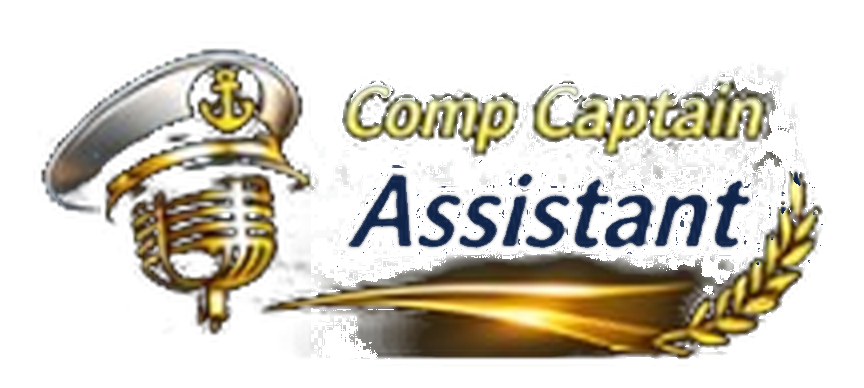
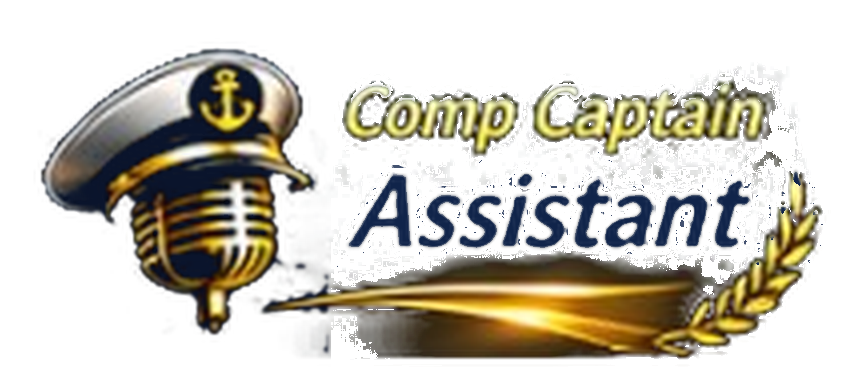
M0 fixes from the owner's Cubase test (0.1.1)
- Waveforms drawn on the screen's real pixels: sharp lines with a separate soft
  glow underneath (they were blurry).
- Bigger lyrics: the current line is 40px (shrinks only to fit long lines), and
  the Lyrics page editor and lined-up list are larger.
- Assistant badge: navy backing behind the hat and microphone, whose dark parts
  were see-through and looked like missing pieces in the light look. The script
  that builds both badges from the owner's art is in art/make_assistant.py.

Claude-Session: https://claude.ai/code/session_01QgEDck2ve2UKLFCYivL7jm

diff --git a/ui/js/wave.js b/ui/js/wave.js
@@ -24,35 +24,48 @@ const Wave = (() => {
   /**
    * opts: t0, t1 (seconds shown), env(t) -> 0..1, color (string or fn(t)), seed, gain, step (px), glow (px), alpha
    */
+  // Drawn on the screen's real pixels: sharp 1-pixel lines on top, with a separate soft glow
+  // underneath, so the waves stay crisp at any window size.
   function draw(canvas, opts) {
     const p = prep(canvas); if (!p) return;
     const { ctx, w, h } = p;
-    const step = opts.step || 1.6;
-    const mid = h / 2;
+    const k = canvas.width / w;                       // real pixels per layout pixel
+    const W = canvas.width, H = canvas.height, mid = Math.round(H / 2) + 0.5;
+    const step = Math.max(2, Math.round((opts.step || 1.6) * k * 0.75)); // in real pixels
     const gain = opts.gain == null ? 0.92 : opts.gain;
-    ctx.globalAlpha = opts.alpha == null ? 1 : opts.alpha;
-    ctx.lineWidth = opts.lineWidth || 1.2;
-    ctx.lineCap = 'round';
-    if (opts.glow !== 0) { ctx.shadowBlur = opts.glow || 6; }
-    let lastColor = null;
-    ctx.beginPath();
-    for (let x = 0; x <= w; x += step) {
-      const t = opts.t0 + (x / w) * (opts.t1 - opts.t0);
-      const color = typeof opts.color === 'function' ? opts.color(t) : opts.color;
-      if (color !== lastColor) {
-        if (lastColor !== null) ctx.stroke();
-        ctx.beginPath(); ctx.strokeStyle = color; ctx.shadowColor = color; lastColor = color;
-      }
-      const n = 0.45 + 0.55 * hash(Math.floor(x / step) + (opts.seed || 0) * 977);
-      const a = Math.min(1, opts.env(t) * n) * mid * gain;
-      ctx.moveTo(x, mid - a); ctx.lineTo(x, mid + a);
+    const alpha = opts.alpha == null ? 1 : opts.alpha;
+    const colorAt = (t) => (typeof opts.color === 'function' ? opts.color(t) : opts.color);
+
+    // work out the columns once
+    const cols = [];
+    for (let X = 0; X <= W; X += step) {
+      const t = opts.t0 + (X / W) * (opts.t1 - opts.t0);
+      const n = 0.45 + 0.55 * hash(Math.floor(X / step) + (opts.seed || 0) * 977);
+      cols.push({ x: X + 0.5, a: Math.max(0.5, Math.min(1, opts.env(t) * n) * (H / 2) * gain), c: colorAt(t) });
     }
-    ctx.stroke();
+    const stroke = (width, a, blur) => {
+      ctx.lineWidth = width; ctx.globalAlpha = alpha * a; ctx.shadowBlur = blur;
+      let last = null;
+      ctx.beginPath();
+      for (const col of cols) {
+        if (col.c !== last) {
+          if (last !== null) ctx.stroke();
+          ctx.beginPath(); ctx.strokeStyle = col.c; ctx.shadowColor = col.c; last = col.c;
+        }
+        ctx.moveTo(col.x, mid - col.a); ctx.lineTo(col.x, mid + col.a);
+      }
+      ctx.stroke();
+    };
+
+    ctx.save();
+    ctx.setTransform(1, 0, 0, 1, 0, 0);
+    ctx.lineCap = 'butt';
+    if (opts.glow !== 0) stroke(Math.max(2, step), 0.35, (opts.glow || 6) * k); // soft halo
+    stroke(Math.max(1, Math.round(k * 0.9)), 1, 0);                            // sharp lines
     // thin bright centre line like the art
-    ctx.shadowBlur = 0; ctx.globalAlpha = (opts.alpha == null ? 1 : opts.alpha) * 0.55;
-    ctx.strokeStyle = typeof opts.color === 'function' ? opts.color(opts.t0) : opts.color;
-    ctx.lineWidth = 0.8; ctx.beginPath(); ctx.moveTo(0, mid); ctx.lineTo(w, mid); ctx.stroke();
-    ctx.globalAlpha = 1;
+    ctx.shadowBlur = 0; ctx.globalAlpha = alpha * 0.6; ctx.strokeStyle = colorAt(opts.t0); ctx.lineWidth = 1;
+    ctx.beginPath(); ctx.moveTo(0, mid); ctx.lineTo(W, mid); ctx.stroke();
+    ctx.restore();
     return p;
   }
 

diff --git a/ui/css/app.css b/ui/css/app.css
@@ -193,7 +193,7 @@ svg { display: block; }
 .lyric-line { position: absolute; left: 8px; right: 8px; top: 8px; height: 48px; display: flex; align-items: center; gap: 10px; }
 .arrow { width: 40px; height: 40px; border-radius: 7px; border: 1px solid var(--btn-edge); background: var(--btn-fill); display: grid; place-items: center; padding: 0; color: var(--text); }
 .arrow svg { width: 22px; height: 22px; }
-.line-text { flex: 1; text-align: center; font-size: 31px; font-weight: 600; white-space: nowrap; overflow: hidden; text-overflow: ellipsis; color: var(--text); text-shadow: 0 0 10px rgba(120, 170, 255, .35); }
+.line-text { flex: 1; text-align: center; font-size: 40px; line-height: 48px; font-weight: 600; white-space: nowrap; overflow: hidden; text-overflow: ellipsis; color: var(--text); text-shadow: 0 0 10px rgba(120, 170, 255, .35); }
 .line-text .sung { color: var(--gold-text); text-shadow: 0 0 12px rgba(255, 190, 40, .55); }
 .chips { position: absolute; left: 50px; right: 50px; top: 62px; height: 26px; }
 .chip {
@@ -449,16 +449,16 @@ svg { display: block; }
 .box-head { display: flex; align-items: center; gap: 10px; height: 38px; padding: 0 12px; font-size: 18px; font-weight: 600; border-bottom: 1px solid var(--row-line); white-space: nowrap; overflow: hidden; }
 .box-head svg { width: 22px; height: 22px; color: var(--gold); flex: none; }
 .box-head .dim { font-size: 14px; font-weight: 400; overflow: hidden; text-overflow: ellipsis; }
-.lyr-editor textarea { position: absolute; left: 0; right: 0; top: 38px; bottom: 0; width: 100%; resize: none; border: 0; outline: none; padding: 10px 14px; background: transparent; color: var(--text); font: 17px/1.5 "CC Sans", sans-serif; user-select: text; }
+.lyr-editor textarea { position: absolute; left: 0; right: 0; top: 38px; bottom: 0; width: 100%; resize: none; border: 0; outline: none; padding: 10px 14px; background: transparent; color: var(--text); font: 22px/1.45 "CC Sans", sans-serif; user-select: text; }
 .lyr-list { position: absolute; left: 0; right: 0; top: 38px; bottom: 0; overflow-y: auto; padding: 6px 8px; }
-.ll { display: grid; grid-template-columns: 70px 1fr 120px; align-items: center; gap: 8px; height: 30px; padding: 0 6px; border-radius: 5px; font-size: 16px; }
+.ll { display: grid; grid-template-columns: 62px 1fr 96px; align-items: center; gap: 8px; height: 36px; padding: 0 6px; border-radius: 5px; font-size: 20px; }
 .ll:nth-child(odd) { background: rgba(120, 170, 255, .05); }
-.ll .t { color: var(--text-3); font-variant-numeric: tabular-nums; font-size: 14px; }
-.ll .sec { color: var(--gold-text); font-size: 13px; font-weight: 700; letter-spacing: .5px; }
+.ll .t { color: var(--text-3); font-variant-numeric: tabular-nums; font-size: 16px; }
+.ll .sec { color: var(--gold-text); font-size: 15px; font-weight: 700; letter-spacing: .5px; }
 .ll .span { height: 8px; border-radius: 4px; background: var(--track); position: relative; }
 .ll .span i { position: absolute; top: 0; bottom: 0; border-radius: 4px; background: linear-gradient(90deg, #7a4cff, #b98aff); box-shadow: 0 0 5px rgba(160, 120, 255, .7); }
 .ll .txt { white-space: nowrap; overflow: hidden; text-overflow: ellipsis; }
-.ll.head { grid-template-columns: 1fr; height: 26px; background: none !important; }
+.ll.head { grid-template-columns: 1fr; height: 30px; background: none !important; }
 
 /* ---------- Tighten page ---------- */
 .tight-box { position: absolute; inset: 0; }

diff --git a/ui/js/app.js b/ui/js/app.js
@@ -31,7 +31,7 @@
     align: JSON.parse(JSON.stringify(D.alignDefaults)),
     exportOn: {},
     sonicology: { voxology: 'installed', mixology: 'installed' },
-    version: '0.1.0', host: 'Browser preview',
+    version: '0.1.1', host: 'Browser preview',
     level: 0,
   };
   if (!PAGES.includes(S.page)) S.page = 'comp';
@@ -172,6 +172,7 @@
       const s = h('span', S.time >= wd.end || (S.time >= wd.start && S.time > ln.start) && S.time < ln.end && S.time >= wd.start ? 'sung' : '', (i ? ' ' : '') + wd.w);
       lt.appendChild(s);
     });
+    fitLineText();
     const chips = $('#section-chips'); chips.innerHTML = '';
     const cw = 1672 - 0; // positions in %, so width doesn't matter
     D.sections.forEach((sec, i) => {
@@ -186,6 +187,12 @@
     const s = h('span', '', fmtShort(D.length)); s.style.left = '100%'; ru.appendChild(s);
     drawOverview();
     movePlayheads();
+  }
+  // The current lyric line is big (40px) and only shrinks as much as a long line needs to fit.
+  function fitLineText() {
+    const lt = $('#line-text'); lt.style.fontSize = '';
+    const room = lt.clientWidth, need = lt.scrollWidth;
+    if (room > 0 && need > room) lt.style.fontSize = Math.max(24, Math.floor(40 * room / need)) + 'px';
   }
   function drawOverview() {
     const secColor = (t) => {

diff --git a/art/make_assistant.py b/art/make_assistant.py
@@ -1,0 +1,43 @@
+# Builds ui/img/assistant.png (dark look) and assistant-light.png from the owner's art/assistant.png.
+from PIL import Image, ImageFilter
+import numpy as np
+from scipy import ndimage
+src = np.array(Image.open('art/assistant.png')).astype(float)
+h, w, _ = src.shape
+yy, xx = np.mgrid[0:h, 0:w]
+
+def channels(im):
+    r, g, b, a = [im[:, :, i] for i in range(4)]
+    mx = np.maximum(np.maximum(r, g), b); mn = np.minimum(np.minimum(r, g), b)
+    return r, g, b, a, mx, (mx - mn) / (mx + 1e-6)
+
+# 1. navy backing behind the hat and microphone (their dark parts were see-through)
+r, g, b, a, mx, sat = channels(src)
+emblem = (xx < 330) & (a > 40)
+body = ndimage.binary_closing(emblem, iterations=5)
+body = ndimage.binary_fill_holes(body)
+body = ndimage.binary_erosion(body, iterations=2)
+back = np.array(Image.fromarray((body * 255).astype(np.uint8)).filter(ImageFilter.GaussianBlur(1.5))).astype(float)
+
+def compose(im):
+    navy = np.zeros((h, w, 4)); navy[:, :, 0] = 10; navy[:, :, 1] = 20; navy[:, :, 2] = 44; navy[:, :, 3] = back
+    base = Image.fromarray(navy.astype(np.uint8), 'RGBA')
+    base.alpha_composite(Image.fromarray(np.clip(im, 0, 255).astype(np.uint8), 'RGBA'))
+    return base
+
+# 2. dark look: thin out the grey smoke behind the words only
+dark = src.copy()
+r, g, b, a, mx, sat = channels(dark)
+smoke = (xx > 330) & (sat < 0.25) & (mx < 170)
+dark[:, :, 3] = np.where(smoke, a * np.clip((mx - 60) / 110, 0, 1) ** 2 * 0.6, a)
+compose(dark).save('ui/img/assistant.png', optimize=True)
+
+# 3. light look: same, plus the white word "Assistant" turned navy so it reads on white
+light = dark.copy()
+r, g, b, a, mx, sat = channels(light)
+txt = (xx > 330) & (yy > 150) & (yy < 270) & (sat < 0.3) & (mx > 120)
+k = np.clip((mx - 120) / 100, 0, 1)
+for i, c in enumerate((16, 36, 74)):
+    light[:, :, i] = np.where(txt, light[:, :, i] * (1 - k) + c * k, light[:, :, i])
+light[:, :, 3] = np.where(txt, np.maximum(a, 200 * k), a)
+compose(light).save('ui/img/assistant-light.png', optimize=True)
